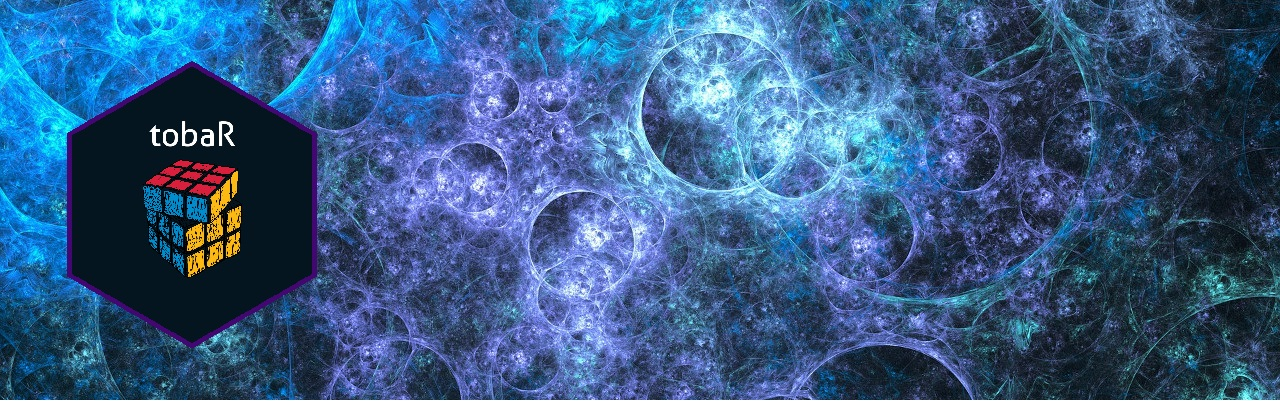
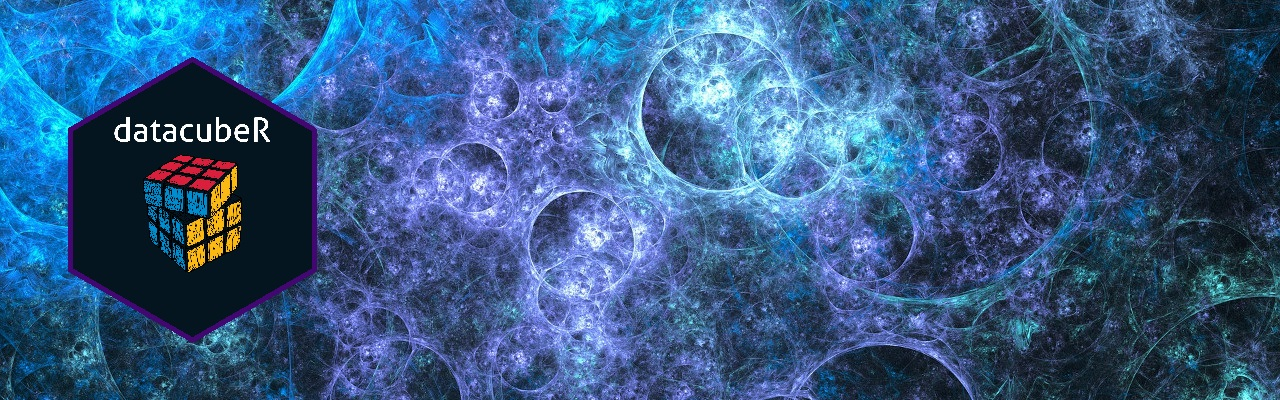
Changing Name

diff --git a/public/project/internal-project/index.html b/public/project/internal-project/index.html
@@ -124,7 +124,7 @@
   
   <meta property="article:published_time" content="2016-04-27T00:00:00-03:00">
   
-  <meta property="article:modified_time" content="2019-03-25T22:06:40-03:00">
+  <meta property="article:modified_time" content="2019-03-26T02:25:15-03:00">
   
 
   
@@ -364,7 +364,7 @@
 
 
 <meta content="2016-04-27 00:00:00 -0300 -0300" itemprop="datePublished">
-<meta content="2019-03-25 22:06:40 -0300 -03" itemprop="dateModified">
+<meta content="2019-03-26 02:25:15 -0300 -03" itemprop="dateModified">
 
 <div class="article-metadata">
 
@@ -379,7 +379,7 @@
           Last updated on
       
     
-    <time>Mar 25, 2019</time>
+    <time>Mar 26, 2019</time>
   </span>
   
 
@@ -529,7 +529,7 @@
 
 
 <meta content="2016-04-27 00:00:00 -0300 -0300" itemprop="datePublished">
-<meta content="2019-03-25 22:06:40 -0300 -03" itemprop="dateModified">
+<meta content="2019-03-26 02:25:15 -0300 -03" itemprop="dateModified">
 
 <div class="article-metadata">
 
@@ -544,7 +544,7 @@
           Last updated on
       
     
-    <time>Mar 25, 2019</time>
+    <time>Mar 26, 2019</time>
   </span>
   
 

diff --git a/public/author/admin/index.html b/public/author/admin/index.html
@@ -123,7 +123,7 @@
   <meta property="og:description" content="Senior Business Analyst"><meta property="og:image" content="/img/icon-192.png">
   <meta property="og:locale" content="en-us">
   
-  <meta property="og:updated_time" content="2019-03-26T01:56:46-03:00">
+  <meta property="og:updated_time" content="2019-03-26T02:25:15-03:00">
   
 
   

diff --git a/public/index.html b/public/index.html
@@ -389,7 +389,7 @@
       ;">
       <div class="container" style="text-align: right;">
           <h1 class="hero-title" itemprop="headline">
-            Welcome to tobaR
+            Welcome to datacubeR
           </h1>
 
           

diff --git a/content/home/slider.md b/content/home/slider.md
@@ -16,7 +16,7 @@ height = "300px"
 # Slides.
 # Duplicate an `[[item]]` block to add more slides.
 [[item]]
-  title = "Welcome to tobaR"
+  title = "Welcome to datacubeR"
   content = "Let's learn Together :grin:"
   align = "right"  # Choose `center`, `left`, or `right`.
 
